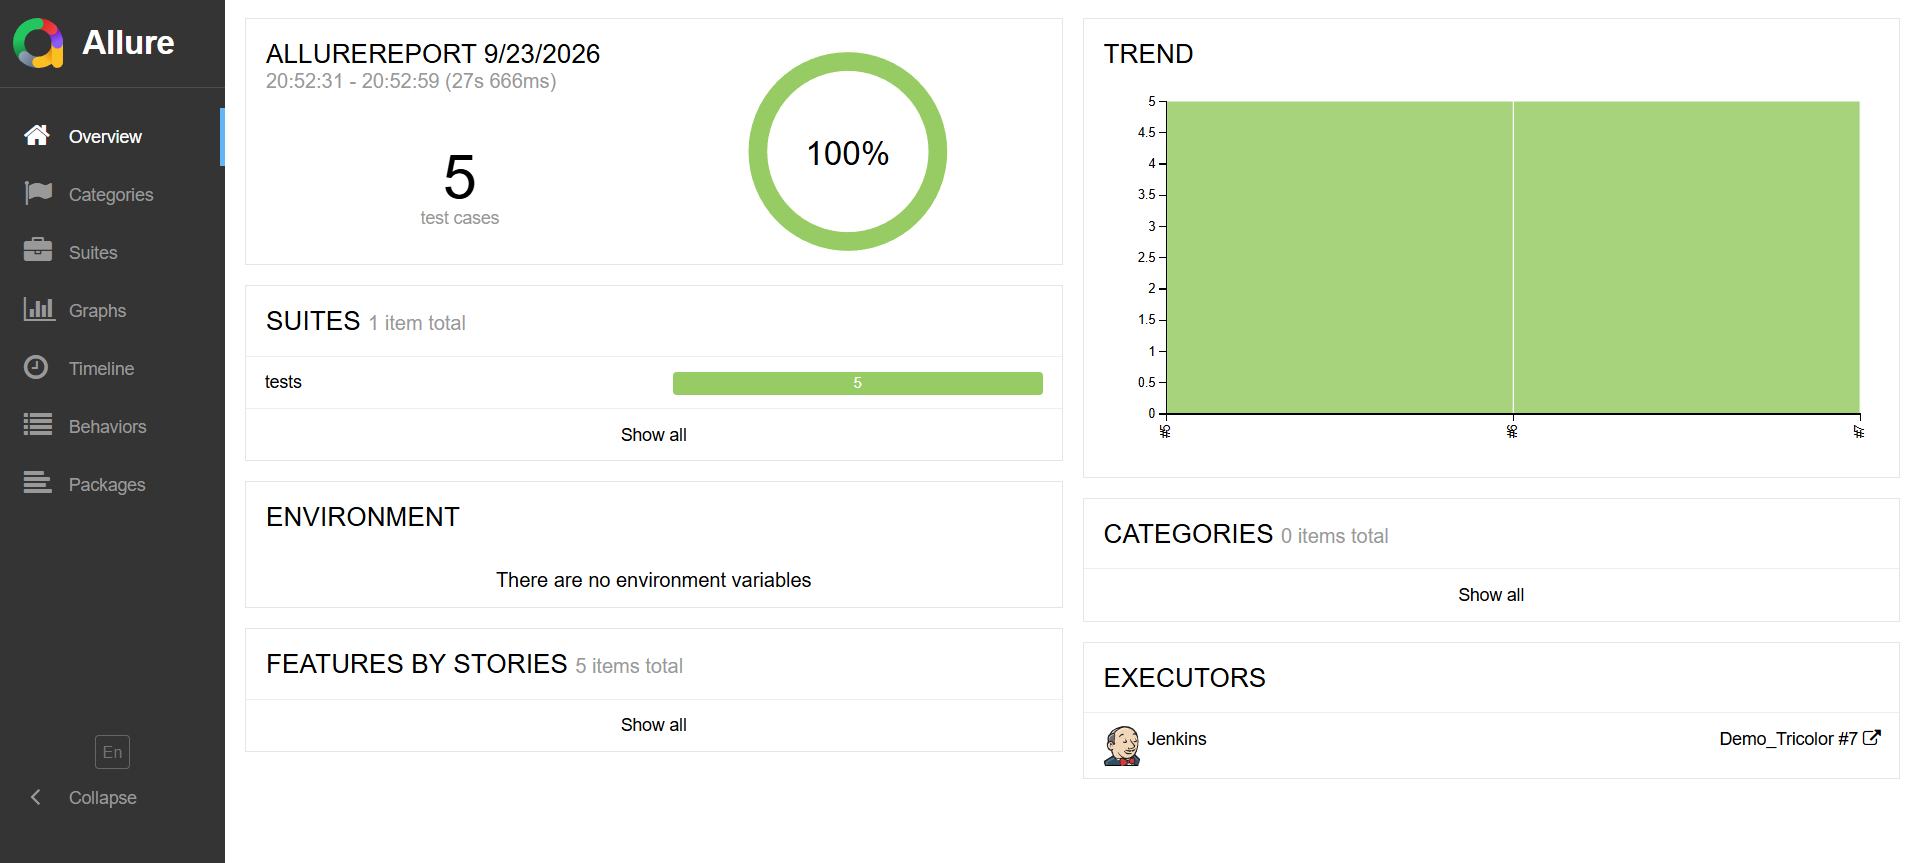
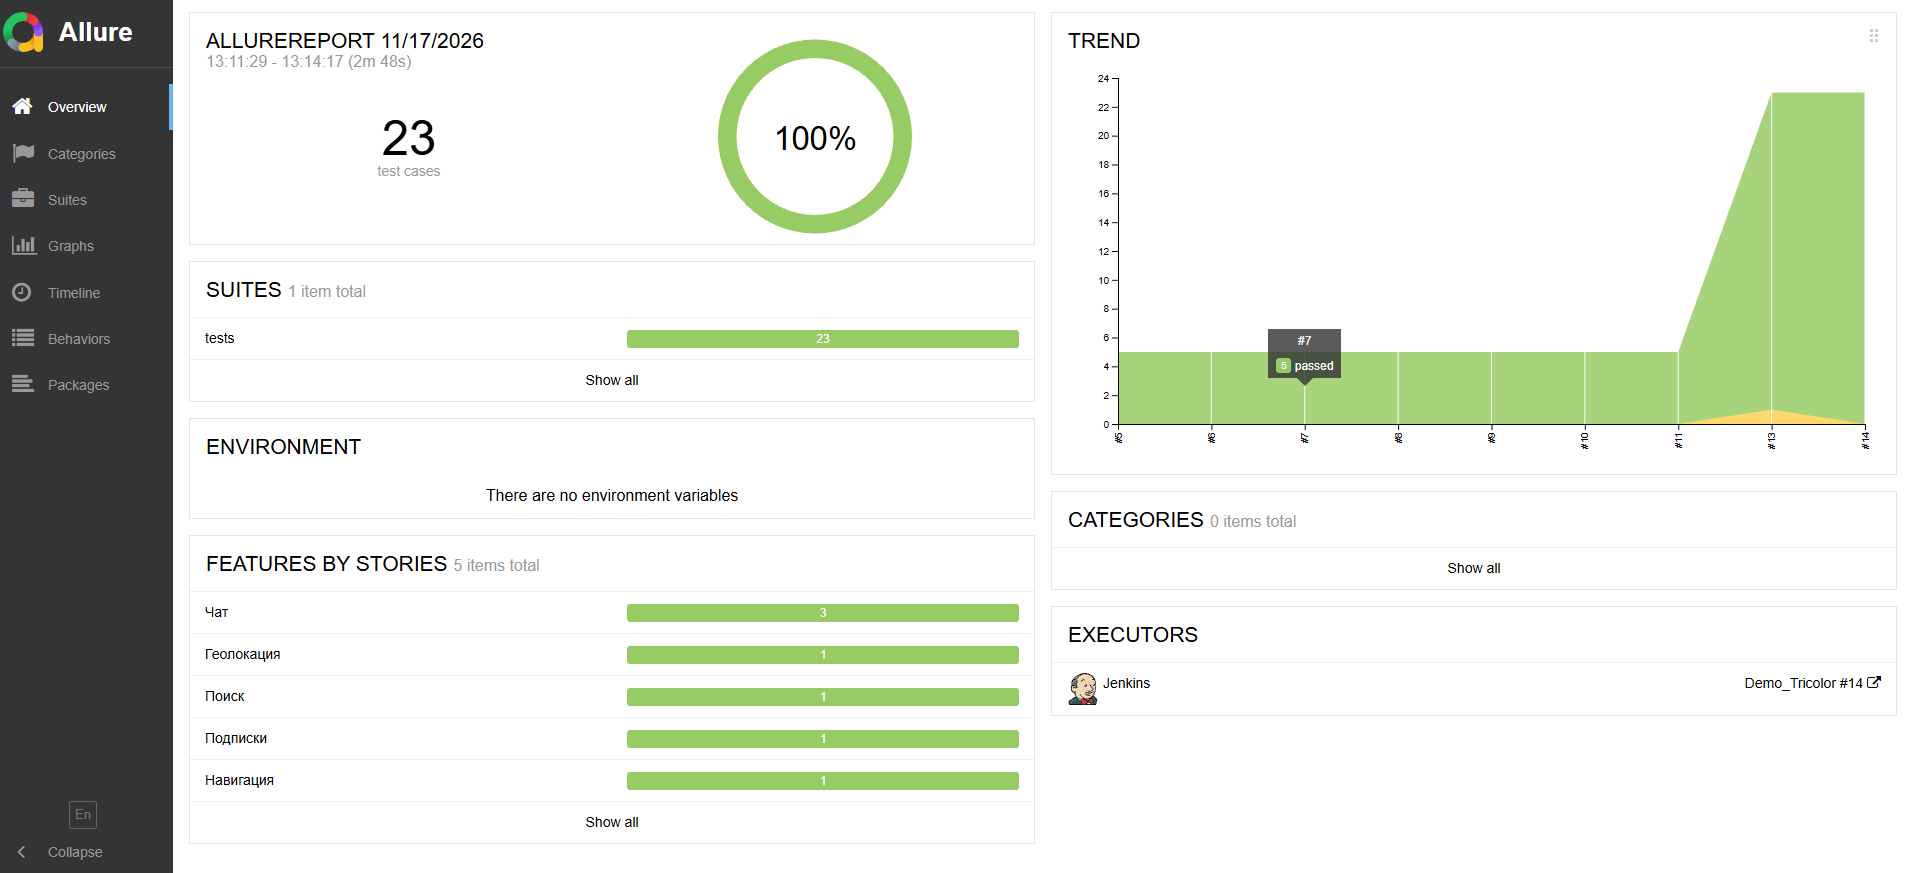
refactoring README.md

diff --git a/README.md b/README.md
@@ -32,31 +32,41 @@
 
 Автоматизированы пользовательские сценарии:
 
-- Выбор геопозиции при первом посещении сайта.
-- Отправка сообщения в чат поддержки.
-- Поиск по сайту.
-- Переход в онлайн-кинотеатр.
-- Проверка подписок по Триколор-id.
+- **Геолокация:** отклонение автоматически определенного ГЕО; выбор и смена ГЕО вручную.
+- **Чат поддержки:** отправка валидных сообщений, сохранение черновика текста, сворачивание виджета и скрытие иконки чата, негативные сценарии.
+- **Поиск:** поиск из хэдэра по валидным запросам, обработка ошибок валидации.
+- **Навигация:** переход в онлайн-кинотеатр с откртиыем в новой вкладке.
+- **Проверка подписок:** валидация формы проверки подписок.
 
 ## Структура проекта
 
 ```text
 TricolorPA/
-├── media/
-│   └── gif/                    # Гифки
-│   └── icons/                  # Иконки технологий для README
-│   └── images/                 # Скриншоты
+├── core/                       
+│   └── browser.py/             # Обертка над WebDriver (ожидания, клики, скролл)
 │
-├── pages/                      # Page Object
-│   └── base_page.py            # Базовый класс для всех страниц
-│   └── demo_page.py            # Страница демонстрации тестов
+├── media/
+│   └── gif/                    # Гифки демонстрации прогона тестов
+│   └── icons/                  # Иконки технологий для README
+│   └── images/                 # Скриншоты отчетов, сборок, уведомлений
+│
+├── pages/
+│   ├── components/             # Переиспользуемые UI-компоненты
+│   │   ├── chat_widget.py      # Виджет чата поддержки
+│   │   ├── geo_window.py       # Поп-ап и модальноре окно выбора ГЕО
+│   │   ├── header.py           # Шапка (хэдэр)
+│   │   └── search_in_header.py # Выпадающая строка поиска в хэдэре
+│   ├── base_page.py            # Базовый класс страниц
+│   ├── main_page.py            # Главная страница сайта
+│   └── search_page.py          # Страница результатов поиска
 │
 ├── tests/                      # Автотесты
-│   └── test_demo.py            # Тесты для страницы демонстрации
+│   └── test_demo.py            # Тесты для страниц демонстрации
 │
 ├── utils/                      # Вспомогательные утилиты и хелперы
 │   └── attach.py               # Модуль для добавления вложений
-│
+│ 
+├── .env                        # Переменное окружение
 ├── conftest.py                 # Фикстуры Pytest и настройка браузера с подключением к Selenoid
 ├── pytest.ini                  # Конфигурация Pytest
 ├── requirements.txt            # Зависимости проекта
@@ -71,17 +81,26 @@ TricolorPA/
 git clone https://github.com/corvuscorvx/TricolorPA.git
 ```
 
-2. Откройте проект в PyCharm.
-
-3. Создайте виртуальное окружение `.venv` на базе Python 3.14.
-
-4. В терминале PyCharm активируйте окружение и установите зависимости:
+2. Создайте виртуальное окружение `.venv`:
 
 ```bash
+python -m venv .venv
 .venv\Scripts\Activate
+```
+3. Установите зависимости:
+
+```bash
 pip install -r requirements.txt
 ```
 
+4. Создайте файл `.env` в корне проекта и укажите параметры подключения:
+
+```
+BASE_URL=https://www.tricolor.ru/
+SELENOID_URL=<адрес_вашего_selenoid>
+SELENOID_LOGIN=<логин>
+SELENOID_PASSWORD=<пароль>
+```
 ## Локальный запуск тестов
 
 Перед запуском убедитесь, что виртуальное окружение `.venv` активировано и вы находитесь в корневой папке проекта.
@@ -98,7 +117,7 @@ pytest -v tests/test_demo.py
 
 ### Запуск одного теста:
 
-Чтобы запустить один тест из файла, после пути к файлу укажите его имя через `::`:
+Чтобы запустить конкретный тест из файла, укажите его имя через `::`:
 
 ```bash
 pytest -v tests/test_demo.py::<имя_теста>
@@ -110,10 +129,7 @@ pytest -v tests/test_demo.py::<имя_теста>
 pytest -vv tests/test_demo.py
 ```
 
-Ключ `-vv` увеличивает подробность вывода Pytest по сравнению с `-v`.
-
-При падении теста команда может показать более полный diff значений в проверках `assert` и меньше сокращать длинные
-сообщения об ошибках.
+Ключ `-vv` увеличивает подробность вывода Pytest по сравнению с `-v`, показывая полный diff значений в проверках `assert` при падении теста.
 
 ## Формирование Allure-отчёта
 
@@ -124,21 +140,11 @@ pytest -vv tests/test_demo.py
 addopts = --clean-alluredir --alluredir=allure-results
 ```
 
-Поэтому для запуска UI-тестов и одновременного сохранения результатов Allure достаточно выполнить команду:
-
-```bash
-pytest -v tests/test_demo.py
-```
-
-После завершения тестового прогона результаты будут сохранены в папке `allure-results`.
-
-Для формирования и открытия отчёта выполните:
+После завершения тестового прогона результаты сохраняются в папку `allure-results`. Для генерации и открытия интерактивного HTML-отчёта выполните:
 
 ```bash
 allure serve allure-results
 ```
-
-Команда создаёт временный HTML-отчёт на основе данных из `allure-results` и автоматически открывает его в браузере.
 
 ### Отчет Allure
 
